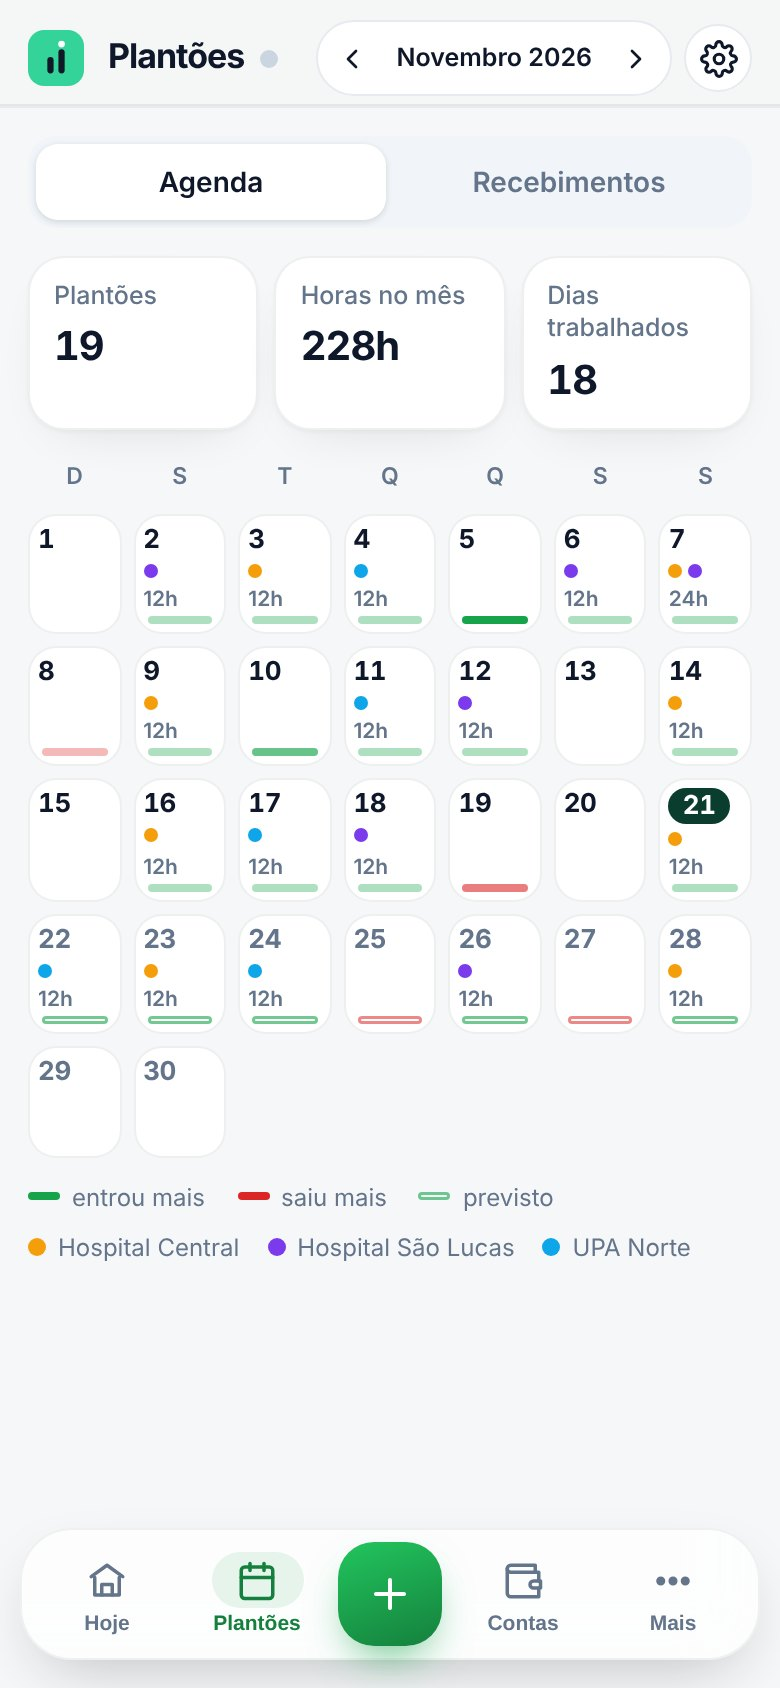
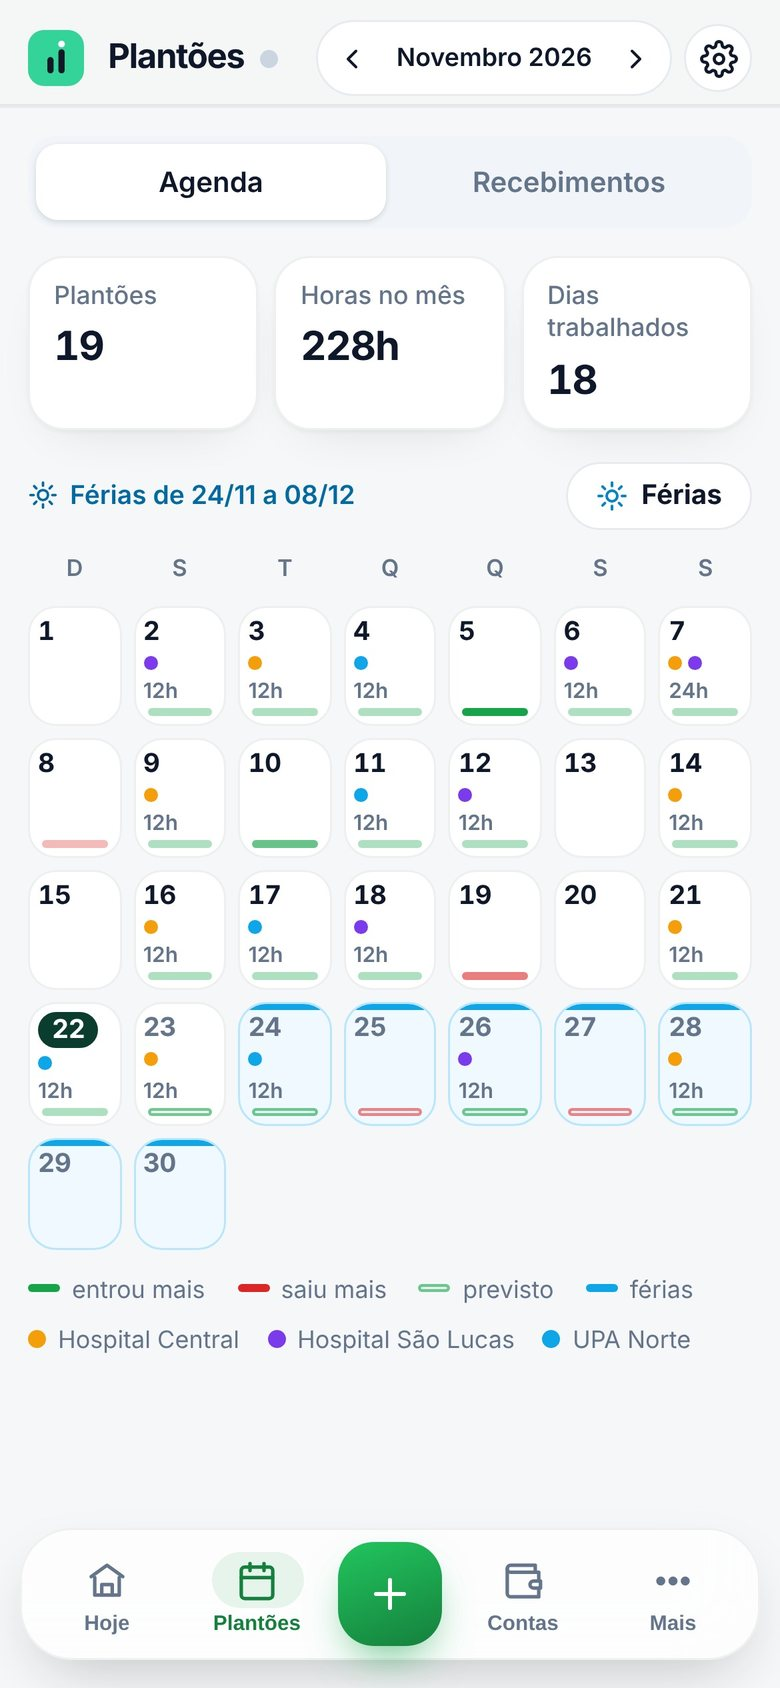
Página de apresentação: modos Simples e Completo, férias e novas perguntas
Claude-Session: https://claude.ai/code/session_013RRhVQirAhMZbyKV5tuuhT

diff --git a/conheca/index.html b/conheca/index.html
@@ -171,9 +171,9 @@
         <p class="sub">Abra o app e veja o que pede atenção hoje: o plantão do dia, o dinheiro que cai e a conta que vence. Plantões, hospitais, contas, impostos e investimentos num lugar só.</p>
         <div class="acoes">
           <a class="btn btn-cheio" href="/">Começar agora</a>
-          <a class="btn btn-linha" href="#video">Ver o vídeo de 3 minutos</a>
+          <a class="btn btn-linha" href="#video">Ver o vídeo</a>
         </div>
-        <p class="nota">Funciona no celular e no computador. Não precisa baixar nada na loja.</p>
+        <p class="nota">Funciona no celular e no computador. Comece no modo Simples e passe para o Completo quando quiser.</p>
       </div>
       <div class="telas" aria-hidden="true">
         <div class="cel a"><img src="img/cel-hoje.jpg" alt="" /></div>
@@ -204,6 +204,19 @@
 
       <div class="linha inv aparece">
         <div class="txt">
+          <h3>Do seu jeito: Simples ou Completo</h3>
+          <p>Na primeira vez, um guia rápido mostra o app todo. No fim, você escolhe como quer usar. Dá para trocar quando quiser, sem perder nada.</p>
+          <ul>
+            <li>Simples: plantões, recebimentos, contas e quanto separar para o imposto</li>
+            <li>Completo: tudo isso, mais investimentos, guias, imposto de renda e relatórios</li>
+            <li>Os mesmos dados nos dois modos</li>
+          </ul>
+        </div>
+        <div class="foto"><div class="cel"><img src="img/cel-modos.jpg" alt="Escolha entre o modo Simples e o modo Completo" loading="lazy" /></div></div>
+      </div>
+
+      <div class="linha aparece">
+        <div class="txt">
           <h3>Seus plantões e quanto falta cair</h3>
           <p>Lance o plantão em segundos. Se for fixo, escolha os dias uma vez e o app lança os próximos sozinho.</p>
           <ul>
@@ -215,17 +228,30 @@
         <div class="foto"><div class="cel"><img src="img/cel-faturamento.jpg" alt="Recebimentos do mês com o botão Recebi" loading="lazy" /></div></div>
       </div>
 
-      <div class="linha aparece">
+      <div class="linha inv aparece">
         <div class="txt">
           <h3>O mês inteiro no calendário</h3>
           <p>Cada dia mostra os plantões, os recebimentos e as contas. Toque num dia para ver tudo e marcar o que já aconteceu.</p>
           <ul>
             <li>Horas e dias trabalhados no mês</li>
             <li>Barra verde quando entrou mais, vermelha quando saiu mais</li>
-            <li>Dias previstos marcados à parte</li>
+            <li>Dias de férias marcados em azul</li>
           </ul>
         </div>
         <div class="foto"><div class="cel"><img src="img/cel-calendario.jpg" alt="Calendário do mês com os plantões marcados" loading="lazy" /></div></div>
+      </div>
+
+      <div class="linha aparece">
+        <div class="txt">
+          <h3>Férias sem susto</h3>
+          <p>No calendário, toque em Férias e escolha o período. Antes de sair, você já sabe o que muda no seu mês.</p>
+          <ul>
+            <li>Quais plantões você precisa passar</li>
+            <li>Quanto deixa de receber</li>
+            <li>Se as contas do mês continuam pagas</li>
+          </ul>
+        </div>
+        <div class="foto"><div class="cel"><img src="img/cel-ferias.jpg" alt="Resumo das férias com os plantões para passar e como ficam as contas" loading="lazy" /></div></div>
       </div>
 
       <div class="linha inv aparece">
@@ -294,12 +320,12 @@
       </div>
 
       <div class="mais aparece">
+        <div><b>Guia de abertura</b><span>Na primeira vez, um passo a passo mostra o app todo.</span></div>
         <div><b>Organizar o mês</b><span>Quanto entrou, as contas, o investido e quanto sobra para gastos extras.</span></div>
         <div><b>Relatório do mês em PDF</b><span>Para guardar ou mandar para o contador.</span></div>
         <div><b>Pix como sócio</b><span>Informe o imposto que a empresa já pagou e veja bruto e líquido.</span></div>
         <div><b>Celular e computador</b><span>Com a nuvem ligada, os dados aparecem nos dois.</span></div>
-        <div><b>Trava com senha</b><span>Senha ou digital para abrir o app no celular.</span></div>
-        <div><b>Modo escuro</b><span>Claro, escuro ou igual ao celular.</span></div>
+        <div><b>Trava e modo escuro</b><span>Senha ou digital para abrir o app. Tema claro, escuro ou igual ao celular.</span></div>
       </div>
     </div>
   </section>
@@ -308,7 +334,7 @@
     <div class="wrap">
       <div class="titulo aparece">
         <h2>Veja o Sallos funcionando</h2>
-        <p>Três minutos mostrando o dia a dia: ver o que fazer hoje, lançar plantão, conferir o mês, decidir se um plantão vale a pena, pagar e investir.</p>
+        <p>Pouco mais de três minutos mostrando o dia a dia: escolher o modo, ver o que fazer hoje, lançar plantão, conferir o mês, planejar as férias, decidir se um plantão vale a pena, pagar e investir.</p>
       </div>
       <video class="aparece" controls preload="none" playsinline poster="img/video-capa.jpg">
         <source src="sallos-demonstracao.mp4" type="video/mp4" />
@@ -362,6 +388,8 @@
       <div class="titulo aparece"><h2>Perguntas frequentes</h2></div>
       <div class="faq aparece">
         <details><summary>Preciso entender de contabilidade?</summary><p>Não. O app usa palavras do dia a dia: quanto entrou, quanto saiu, quanto separar para o imposto. As contas ficam por conta dele.</p></details>
+        <details><summary>Achei o app completo demais. Tem um jeito mais simples?</summary><p>Tem. No modo Simples, o app mostra só plantões, recebimentos, contas e quanto separar para o imposto. Quando quiser mais, troque para o Completo em Mais, no celular, ou no pé da barra lateral, no computador. Nenhum dado se perde.</p></details>
+        <details><summary>Como funciona o modo Férias?</summary><p>No calendário, toque em Férias e escolha o primeiro e o último dia. O app mostra os plantões que caem no período, quanto você deixa de receber e se as contas dos meses seguintes continuam pagas. Se quiser, salve as férias no calendário e tire da agenda os plantões que vai passar.</p></details>
         <details><summary>Funciona no iPhone e no Android?</summary><p>Sim. Abra sallos.com.br no navegador e coloque na tela inicial. No computador, é só abrir o mesmo endereço.</p></details>
         <details><summary>Substitui o meu contador?</summary><p>Não. O Sallos organiza seus números e estima os impostos para você não ter surpresa. Ele também gera um relatório para mandar ao contador.</p></details>
         <details><summary>Ajuda a decidir se aceito um plantão?</summary><p>Sim. Em "Vale a pena?", digite o valor e as horas. O app mostra quanto entra já sem o imposto, quanto dá por hora comparado com a sua média e quantos plantões como esse pagam a sua meta.</p></details>
